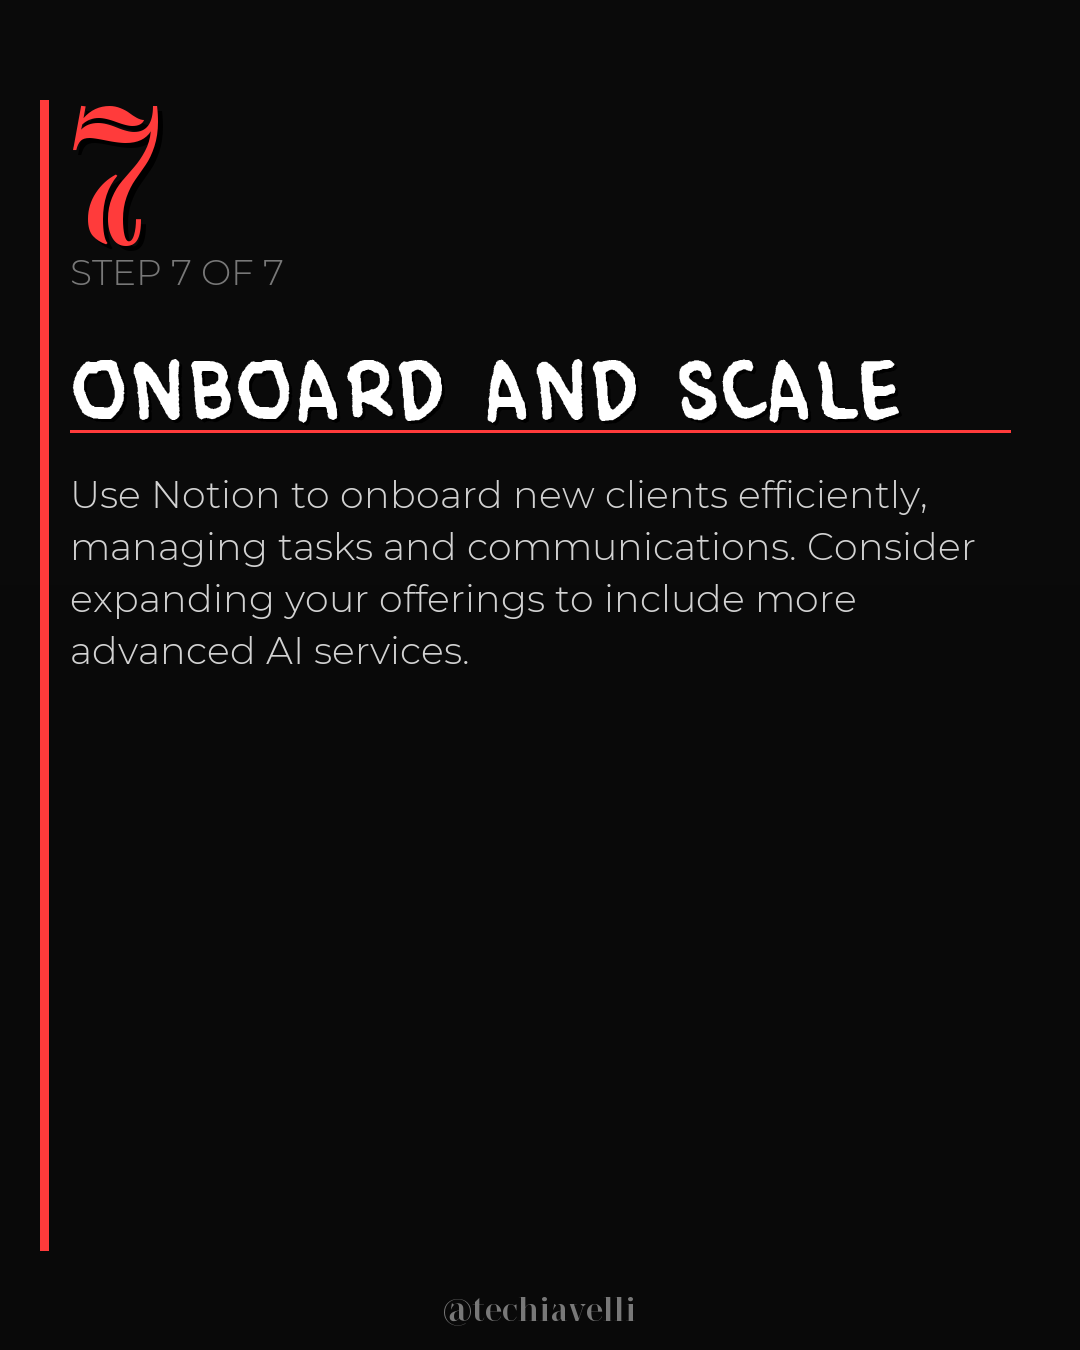
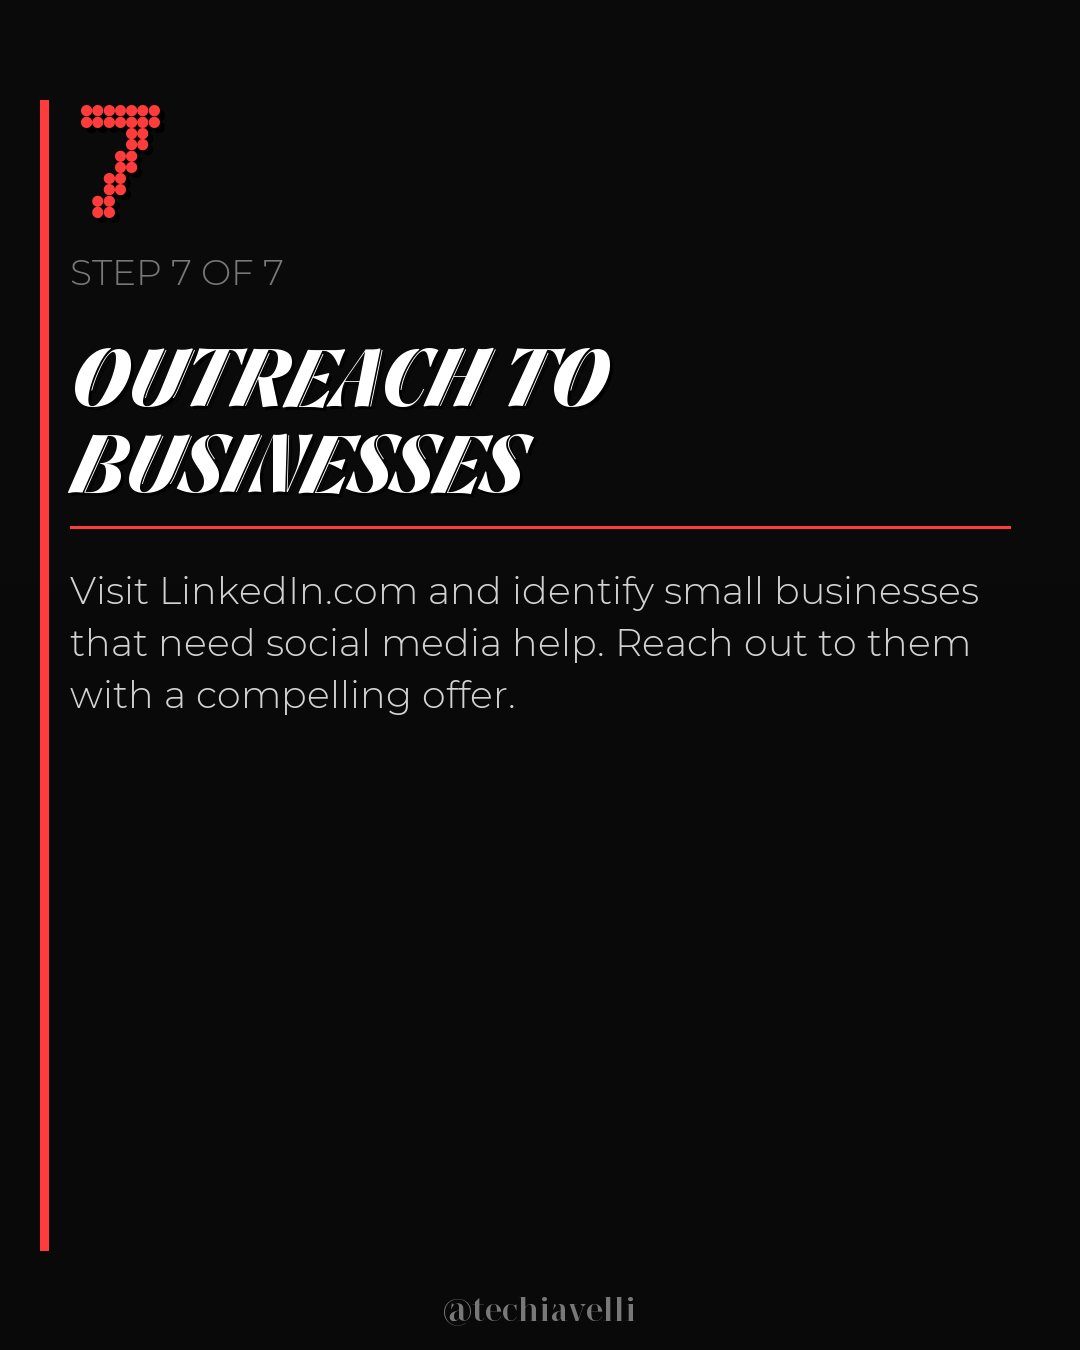
Update fonts and styles across presentation slides for clarity and branding
Modify font types and sizes for headers, titles, amounts, and footer text within the presentation slides, updating `scripts/daily_aid_slide_builder.py` and regenerating preview images.

Replit-Commit-Author: Agent
Replit-Commit-Session-Id: e097bc39-29f9-42ff-9f58-d372b871b7d4
Replit-Commit-Checkpoint-Type: full_checkpoint
Replit-Commit-Event-Id: 5cc5d507-f86f-4150-ac7d-ef4f8f2e93d2

Changed region(s): [[0.0611, 0.2489, 0.8861, 0.5289], [0.0611, 0.0622, 0.1528, 0.1867]]

diff --git a/scripts/daily_aid_slide_builder.py b/scripts/daily_aid_slide_builder.py
@@ -247,8 +247,8 @@ class DailyAidSlideBuilder:
         left_margin = 60
         max_text_width = self.width - (left_margin * 2)
         
-        header_text = f"Daily Ai'Ds #{idea_number}"
-        header_font = ImageFont.truetype('assets/fonts/Zina-Regular.ttf', 95)
+        header_text = f"Daily Ai'ds #{idea_number}"
+        header_font = ImageFont.truetype('assets/fonts/Array-Wide.ttf', 95)
         bbox = draw.textbbox((0, 0), header_text, font=header_font)
         header_x = (self.width - (bbox[2] - bbox[0])) // 2
         header_height = bbox[3] - bbox[1]
@@ -259,10 +259,10 @@ class DailyAidSlideBuilder:
         monthly_income = idea.get('monthly_income', idea.get('estimated_earnings', '$500-2000/mo'))
         
         label_font = ImageFont.truetype('assets/fonts/Montserrat-Light.ttf', 40)
-        title_font = ImageFont.truetype('assets/fonts/Comico-Regular.ttf', 95)
+        title_font = ImageFont.truetype('assets/fonts/Britney-Variable.ttf', 95)
         title_lines = self._wrap_text(title.upper(), title_font, max_text_width)
         earnings_label_font = ImageFont.truetype('assets/fonts/Montserrat-Light.ttf', 36)
-        amount_font = ImageFont.truetype('assets/fonts/Stardom-Regular.ttf', 68)
+        amount_font = ImageFont.truetype('assets/fonts/Zina-Regular.ttf', 68)
         method_font = self._get_dynamic_font(income_method.lower(), 'assets/fonts/Montserrat-Light.ttf', max_text_width, 46, 32)
         method_lines = self._wrap_text(income_method.lower(), method_font, max_text_width)
         
@@ -344,7 +344,7 @@ class DailyAidSlideBuilder:
         padding = 70
         max_text_width = self.width - (padding * 2)
         
-        number_font = ImageFont.truetype('assets/fonts/Zina-Regular.ttf', 180)
+        number_font = ImageFont.truetype('assets/fonts/Array-Wide.ttf', 180)
         self._draw_text_with_shadow(draw, (padding, 60), step_num, number_font, accent_rgb, shadow_offset=5)
         
         progress_font = ImageFont.truetype('assets/fonts/Montserrat-Light.ttf', 36)
@@ -352,7 +352,7 @@ class DailyAidSlideBuilder:
         draw.text((padding, 250), progress_text, font=progress_font, fill=(120, 120, 120))
         
         step_title = step.get('title', f'Step {step_num}')
-        title_font = ImageFont.truetype('assets/fonts/Comico-Regular.ttf', 80)
+        title_font = ImageFont.truetype('assets/fonts/Britney-Variable.ttf', 80)
         title_lines = self._wrap_text(step_title.upper(), title_font, max_text_width)
         
         bbox = draw.textbbox((0, 0), "Ag", font=title_font)
@@ -413,7 +413,7 @@ class DailyAidSlideBuilder:
         draw.text((x, 220), cta_label, font=label_font, fill=(160, 160, 160))
         
         cta_main = "CHATGPT OR CLAUDE"
-        main_font = self._get_dynamic_font(cta_main, 'assets/fonts/Stardom-Regular.ttf', max_text_width, 90, 50)
+        main_font = self._get_dynamic_font(cta_main, 'assets/fonts/Britney-Variable.ttf', max_text_width, 90, 50)
         bbox = draw.textbbox((0, 0), cta_main, font=main_font)
         x = (self.width - (bbox[2] - bbox[0])) // 2
         self._draw_text_with_shadow(draw, (x, 290), cta_main, main_font, (255, 255, 255), shadow_offset=4)
@@ -437,14 +437,14 @@ class DailyAidSlideBuilder:
         
         tools = idea.get('tools_mentioned', [])
         if tools:
-            tools_font = ImageFont.truetype('assets/fonts/Montserrat-Light.ttf', 32)
+            tools_font = ImageFont.truetype('assets/fonts/Montserrat-Bold.ttf', 32)
             tools_text = "Tools: " + ", ".join(tools[:5])
             tools_lines = self._wrap_text(tools_text, tools_font, max_text_width)
             y_tools = self.height - 160
             for line in tools_lines:
                 bbox = draw.textbbox((0, 0), line, font=tools_font)
                 x = (self.width - (bbox[2] - bbox[0])) // 2
-                draw.text((x, y_tools), line, font=tools_font, fill=(120, 120, 120))
+                draw.text((x, y_tools), line, font=tools_font, fill=accent_rgb)
                 y_tools += 42
         
         watermark = self.branding.get('watermark', '@techiavelli')
